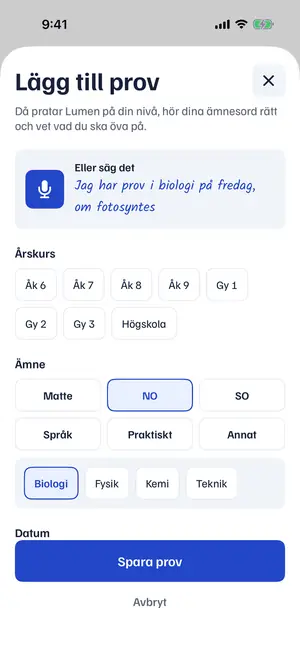
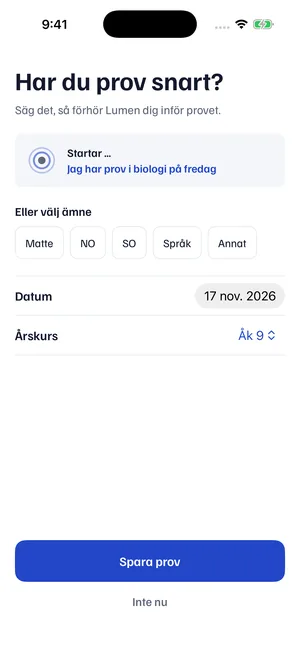
Kelly: A30 granskad (godkänd, 6 mindre fynd), Ke18 klar (sidans tre steg i nya systemet), överlämning enligt PLAN 2e

diff --git a/site/index.html b/site/index.html
@@ -723,8 +723,8 @@
     <p class="lead">Tre steg. Sedan ligger telefonen i fickan och du pluggar med rösten.</p>
     <ol class="steps">
       <li class="paper"><h3>Tryck Testa nu och fråga högt</h3><p>Inget konto. Sätt i AirPods och fråga vad som helst. Svaret hörs i örat.</p><picture><source media="(prefers-color-scheme: dark)" srcset="img/fraga-dark.webp"><img class="shot" src="img/fraga-light.webp" width="300" height="652" loading="lazy" alt="Skärmen Fråga vad som helst i appen: frågan Vad är fotosyntes? och svaret i ett kort, med knappen Fortsätt."></picture></li>
-      <li class="paper"><h3>Säg vilket prov du har</h3><p>Till exempel <span class="hand">”Jag har prov i biologi på fredag”</span>. Du kan också välja ämne och datum.</p><picture><source media="(prefers-color-scheme: dark)" srcset="img/steg1-dark.webp"><img class="shot" src="img/steg1-light.webp" width="300" height="652" loading="lazy" alt="Skärmen Lägg till prov i appen med årskurs, ämne och datum."></picture></li>
-      <li class="paper"><h3>Säg ”Lumen, förhör mig”</h3><p>Lumen ställer frågor om det du pluggar och svarar på dina. Vill du bara ha svar trycker du Få A-svar till provet.</p><picture><source media="(prefers-color-scheme: dark)" srcset="img/steg3-dark.webp"><img class="shot" src="img/steg3-light.webp" width="300" height="652" loading="lazy" alt="Provläget lyssnar i appen: Ställ en fråga när du vill."></picture></li>
+      <li class="paper"><h3>Säg vilket prov du har</h3><p>Till exempel <span class="hand">”Jag har prov i biologi på fredag”</span>. Du kan också välja ämne och datum.</p><picture><source media="(prefers-color-scheme: dark)" srcset="img/steg1-dark.webp"><img class="shot" src="img/steg1-light.webp" width="300" height="652" loading="lazy" alt="Skärmen Har du prov snart? i appen: säg till exempel Jag har prov i biologi på fredag, eller välj ämne, datum och årskurs. Knappen Spara prov."></picture></li>
+      <li class="paper"><h3>Säg ”Lumen, förhör mig”</h3><p>Lumen ställer frågor om det du pluggar och svarar på dina. Vill du bara ha svar trycker du Få A-svar till provet.</p><picture><source media="(prefers-color-scheme: dark)" srcset="img/steg3-dark.webp"><img class="shot" src="img/steg3-light.webp" width="300" height="652" loading="lazy" alt="Provläget i appen med brickan Lyssnar: frågan Vad är fotosyntes? och svaret, med knapparna Pausa och Avsluta."></picture></li>
     </ol>
     <p class="shot-note">Skärmbilder från en testversion av appen.</p>
   </section>

diff --git a/docs/STATUS.md b/docs/STATUS.md
@@ -31,7 +31,7 @@ Last updated: 2026-11-08 by Angela (builder).
 - **Provläge (Angela, D36/D38) and Målbeskrivning + Egna kommandon (Angela, D37/D39):** hands-free tutor session (VAD end-of-turn 0.8 s, barge-in, recogniser gated while we speak, auto-end after 10 min releases the microphone, `mode: tutor` with the whole session's `recent_qa`, retried as `push_to_talk` while the backend rejects `tutor`); course goals compact ≤ 1 500 chars as `goals`; keyword commands matched STT-tolerantly and sent as `commands`, spoken "spara kommando …" stored and confirmed. Green in CI (run 41817986402, 249 app tests); **untested on device**; the backend (answer v8) still rejects `mode: tutor` (400, the app falls back to `push_to_talk`) and ignores the new `goals`/`commands` fields until Kevin's D36/D37 tasks land, so the tutor style and command effects are not yet observable. Also the D35 setting *Svarslängd* (Kort / Anpassad / Utförlig → backend `length`, Settings → Answers), green in run 41819618434 (250 app tests). Reports: `reports/2026-11-04-1214-angela-plugglage.md`, `reports/2026-11-04-1214-angela-goals-commands.md`; checklist §3r–3s.
 - **Easy switch to music (Angela, D33):** Pause/Resume on the listening screen, Lock Screen (Live Activity) and a Control; pause releases the audio session, interruptions never auto-resume (also with `shouldResume`), nothing is spoken while paused. New extension `LumenControls`. Green in CI (run 41806325518); **untested on device**, and the Control's process and Lock Screen resume are untested assumptions. Report: `reports/2026-11-04-1130-angela-d33-music-switch.md`.
 - **Queue D44–D58 (Angela, 2026-11-06):** Historik and Minne on the phone (D49/D56), Scribe as default recogniser with Apple as fallback (D44), Mikrofon per mode + comparison in Diagnostics (D55), mode picker with Intervjuläge and Rizzläge on the StudyMachine (D42/D43), report + Feedback & förslag + opt-in sharing (D57), Siri phrases, Start control and spoken pause (D58), checklist §3t–3z. Also fixed: `goals`/`commands` were sent where the backend does not read them. Green in CI (run 42259754856, 315 app tests). **Nothing has run on a device.** `/feedback` and `/shared-history` are not deployed yet. **Open for Aron:** the discreet indicator was not built (see report, Concerns). Report: `reports/2026-11-06-1830-angela-queue-d49-d58.md`.
-- **Offentlig demosida (Kelly, D62/D66/D86):** Kelly: **Ke21 klar:** "Rizz 18+" och "bara för dig som är 18 år" borta från sidan och skissen Byt läge (D112); sidan beskriver inga spärrar utöver integritet och demons gräns (B2, B3); `reports/2026-11-10-1240-kelly-ke21-d112-sidan.md`. **Ke20 klar:** A26 **godkänd** (R1–R6 stängda i simulatorbilder). Nytt fynd: Övningsprovet (A16) visar ingen lyssnarbricka (skyddsräcke), plus 3 mindre; `reports/2026-11-10-1133-kelly-granskning-a26.md`. Ke18 del 1: sidans steg 1 har appens nya Första frågan; steg 2–3 väntar på bilderna `addExam` och Provläget lyssnar. **Ke19 klar:** demorutan har D97:s två val (Förhör mig = tre Provlägesfrågor med inspelade svar utan anrop, Få A-svar till provet = livedemon, förvald); Lighthouse 99/100/100/100, 1 491 kB, bara Chromium; `reports/2026-11-10-1046-kelly-ke19-d97-pa-sidan.md`. **Ke9 klar** (en väg på demosidan: demo → "Så kommer du igång" i 3 steg → en knapp; mobil 8 533 → 4 226 px, Lighthouse 100; designunderlag för appen i `docs/design/enkel-start.md` till A18; `reports/2026-11-10-0735-kelly-ke9-enkel-start.md`; live, Pages-deploy grön). Ke10 klar (underlag för Start utan prov, Lyssnar och Mikrofon nekad; `reports/2026-11-10-0735-kelly-ke10-vanliga-vagen.md`). Ke11 klar (FAQ synlig på sidan, samma ord i demons rad; `reports/2026-11-10-0740-kelly-ke11-ord-faq.md`). Ke12b klar (designspec app mot sida i `docs/design/designspec.md`; `reports/2026-11-10-0738-kelly-ke12b-designspec.md`). **Ke12 klar:** nytt designsystem `docs/design/SYSTEM.md` (ersätter D86:s skollook i appen) med 3 loggförslag och 5 skärmar före/efter till A18; `reports/2026-11-10-0746-kelly-ke12-proffsig-pluggapp.md`. Ke17 klar: A18 **godkänd med rättelser** (Start godkänd; R1–R4 till Angela före nästa T3), `reports/2026-11-10-0805-kelly-granskning-a18.md`. Ke16 klar: annonserna i nya systemet (`docs/marketing/annonser/system/`); `reports/2026-11-10-0802-kelly-ke16-annonser-system.md`. Ke15 klar: ny delningsbild `og-lumen.png`, site 1 487 kB; `reports/2026-11-10-0800-kelly-ke15-delningsbild.md`. Ke14 klar: SYSTEM.md del 2 (fem skärmar till A18/A22); `reports/2026-11-10-0759-kelly-ke14-system-del2.md`. Ke13 klar: D97 två knappar på provkortet i SYSTEM.md och skisserna; `reports/2026-11-10-0754-kelly-ke13-d97-tva-knappar.md`. Ke13b klar: sidan i SYSTEM.md (ingen handstil eller rutpapper, Kalam bort, 1 699 kB); `reports/2026-11-10-0751-kelly-ke13-sida-nya-systemet.md`. Ke3 klar (steg med T3-bilder, animation, FAQ, sitemap). Ke2 klar (fokus till svaret efter en fråga, träffytor 44 px, taket för tal provat live med fejkad mikrofon; `reports/2026-11-08-1815-kelly-ke2-oscar-fynd.md`). Ke1 klar (riktiga Provläge-exempel med inspelat ljud, väntelisterad efter svaret, svepbara exempelfrågor på mobil, inga layoutskift, delningsbild och favicon; 61 kB vid start; `reports/2026-11-08-1640-kelly-ke1-demo.md`). Sidan är **publicerad** på https://aronstenlund-code.github.io/aronstenlund-airpods-ai/ (Pages på 2026-11-08, run 42486945392: check och deploy gröna). Live verifierat i Chromium: en riktig fråga gav svar (signup, answer, tts 200), typsnitten laddas och CORS tillåter adressen. Appens design (D86) med platshållare för foto. Ändringar i `site/` publiceras av sig själva vid push till main. **Ej testad på iPhone, Safari eller AirPods.** Kvar: riktigt foto. Rapporter: `reports/2026-11-08-1250-kelly-demo-publish.md`, `reports/2026-11-08-1450-kelly-demo-d86.md`.
+- **Offentlig demosida (Kelly, D62/D66/D86):** Kelly: **A30 granskad: godkänd** (Ke20:s fyra fynd rättade i simulatorbilder; 6 mindre nya fynd till Angela, bl.a. "Startar …" på Har du prov snart?, demodata som blandar ämnen i övningsprovet). **Ke18 klar:** sidans tre steg visar appen i det nya systemet (Första frågan, Har du prov snart?, Provläget med "Lyssnar"); Lighthouse 99/100/100/100, bara Chromium; `reports/2026-11-10-1249-kelly-granskning-a30-ke18.md`. Kellys session stoppar enligt PLAN 2e (två komprimeringar); Ke22–Ke25 väntar på nästa Kelly-session, se `docs/HANDOVER-KELLY.md`. **Ke21 klar:** "Rizz 18+" och "bara för dig som är 18 år" borta från sidan och skissen Byt läge (D112); sidan beskriver inga spärrar utöver integritet och demons gräns (B2, B3); `reports/2026-11-10-1240-kelly-ke21-d112-sidan.md`. **Ke20 klar:** A26 **godkänd** (R1–R6 stängda i simulatorbilder). Nytt fynd: Övningsprovet (A16) visar ingen lyssnarbricka (skyddsräcke), plus 3 mindre; `reports/2026-11-10-1133-kelly-granskning-a26.md`. Ke18 del 1: sidans steg 1 har appens nya Första frågan; steg 2–3 väntar på bilderna `addExam` och Provläget lyssnar. **Ke19 klar:** demorutan har D97:s två val (Förhör mig = tre Provlägesfrågor med inspelade svar utan anrop, Få A-svar till provet = livedemon, förvald); Lighthouse 99/100/100/100, 1 491 kB, bara Chromium; `reports/2026-11-10-1046-kelly-ke19-d97-pa-sidan.md`. **Ke9 klar** (en väg på demosidan: demo → "Så kommer du igång" i 3 steg → en knapp; mobil 8 533 → 4 226 px, Lighthouse 100; designunderlag för appen i `docs/design/enkel-start.md` till A18; `reports/2026-11-10-0735-kelly-ke9-enkel-start.md`; live, Pages-deploy grön). Ke10 klar (underlag för Start utan prov, Lyssnar och Mikrofon nekad; `reports/2026-11-10-0735-kelly-ke10-vanliga-vagen.md`). Ke11 klar (FAQ synlig på sidan, samma ord i demons rad; `reports/2026-11-10-0740-kelly-ke11-ord-faq.md`). Ke12b klar (designspec app mot sida i `docs/design/designspec.md`; `reports/2026-11-10-0738-kelly-ke12b-designspec.md`). **Ke12 klar:** nytt designsystem `docs/design/SYSTEM.md` (ersätter D86:s skollook i appen) med 3 loggförslag och 5 skärmar före/efter till A18; `reports/2026-11-10-0746-kelly-ke12-proffsig-pluggapp.md`. Ke17 klar: A18 **godkänd med rättelser** (Start godkänd; R1–R4 till Angela före nästa T3), `reports/2026-11-10-0805-kelly-granskning-a18.md`. Ke16 klar: annonserna i nya systemet (`docs/marketing/annonser/system/`); `reports/2026-11-10-0802-kelly-ke16-annonser-system.md`. Ke15 klar: ny delningsbild `og-lumen.png`, site 1 487 kB; `reports/2026-11-10-0800-kelly-ke15-delningsbild.md`. Ke14 klar: SYSTEM.md del 2 (fem skärmar till A18/A22); `reports/2026-11-10-0759-kelly-ke14-system-del2.md`. Ke13 klar: D97 två knappar på provkortet i SYSTEM.md och skisserna; `reports/2026-11-10-0754-kelly-ke13-d97-tva-knappar.md`. Ke13b klar: sidan i SYSTEM.md (ingen handstil eller rutpapper, Kalam bort, 1 699 kB); `reports/2026-11-10-0751-kelly-ke13-sida-nya-systemet.md`. Ke3 klar (steg med T3-bilder, animation, FAQ, sitemap). Ke2 klar (fokus till svaret efter en fråga, träffytor 44 px, taket för tal provat live med fejkad mikrofon; `reports/2026-11-08-1815-kelly-ke2-oscar-fynd.md`). Ke1 klar (riktiga Provläge-exempel med inspelat ljud, väntelisterad efter svaret, svepbara exempelfrågor på mobil, inga layoutskift, delningsbild och favicon; 61 kB vid start; `reports/2026-11-08-1640-kelly-ke1-demo.md`). Sidan är **publicerad** på https://aronstenlund-code.github.io/aronstenlund-airpods-ai/ (Pages på 2026-11-08, run 42486945392: check och deploy gröna). Live verifierat i Chromium: en riktig fråga gav svar (signup, answer, tts 200), typsnitten laddas och CORS tillåter adressen. Appens design (D86) med platshållare för foto. Ändringar i `site/` publiceras av sig själva vid push till main. **Ej testad på iPhone, Safari eller AirPods.** Kvar: riktigt foto. Rapporter: `reports/2026-11-08-1250-kelly-demo-publish.md`, `reports/2026-11-08-1450-kelly-demo-d86.md`.
 - **D63 + indicator (Angela, 2026-11-06):** Rizzläge flirty only behind an 18+ gate, new Socialt läge, slimmer indicator that keeps its text and Stop (D68, Aron confirmed "Behåll texten"). Green in CI (run 42268384817, 320 app tests). **Untested on device.** Both live modes fail against the server until Kevin's D63 is deployed. Report: `reports/2026-11-06-1945-angela-d63-indicator.md`.
 - **Device install without a Mac (Angela, D70, 2026-11-07):** CI archives the app unsigned and uploads `Lumen-unsigned.ipa` (artifact `Lumen-unsigned`, 14 days) on green builds of main and on manual runs; no entitlements in the repo, so nothing is dropped. Swedish steps: `docs/INSTALL-SIDELOADLY.md`. Aron installed it on an iPhone 14 Pro (iOS 26.5).
 - **Crash when the microphone starts, fixed (Angela, 2026-11-07):** the capture tap closure inherited `@MainActor` and Swift 6 trapped on Core Audio's real-time queue (9 crashes on device). Six callbacks (two audio taps, the synthesizer buffer callback, the player completion handler, the SFSpeech result and authorization handlers) are now nonisolated; a test calls each from a background queue. **D71:** Provläge never auto-ends by default. Commit `4a50887`. **Untested on device** until Aron reinstalls. Report: `reports/2026-11-07-1640-angela-crash-fix-callbacks.md`.

diff --git a/reports/2026-11-10-1249-kelly-granskning-a30-ke18.md b/reports/2026-11-10-1249-kelly-granskning-a30-ke18.md
@@ -1,0 +1,54 @@
+# Ke21 del 2 – Granskning av A28–A30 och Ke18 klar (Kelly, 2026-11-10 12:49)
+
+Angela pushade samma bilder under arbetet (`reports/2026-11-10-a30-skarmbilder/`, kontrollerat byte för byte för
+`addExamFirst`, `listeningProv` och `practice`).
+
+Underlag: Angelas `reports/2026-11-10-angela-a30-kelly-ke20.md` och simulatorbilderna från CI-körningarna 42807653076
+(iPhone 17 Pro, 1206 × 2622) och 42807657706 (iPhone SE, 750 × 1334), båda gröna. Jag hämtade bilderna direkt ur
+körningarna, eftersom de inte var pushade än. Kontaktark: `reports/2026-11-10-ke21-granskning-a30/`.
+**Bara skärmbilder från simulatorn, inget på telefon.**
+
+A28 (ekot efter tiden) och A29 (händelser för mikrofonen) ändrar inte utseendet, så de har inga bilder att granska.
+
+## Dom: **A30 godkänd.** Alla fyra fynden från Ke20 är rättade i bild.
+| # | Fynd (Ke20) | I bilderna |
+|---|---|---|
+| 1 | Övningsprovet saknar lyssnarbricka (skyddsräcke) | **Rättat.** `practice` och `practiceResult` visar Lyssnar i Provläge med brickan "Lyssnar", på Pro och SE och i ljust och mörkt (bild 1–3). |
+| 2 | "Klar" på resultatkortet | **Rättat.** Knappen heter "Stäng" (bild 2). |
+| 3 | "Lumen sparar aldrig ljud" | **Rättat.** Första frågan säger "Ljud sparas inte.", samma ord som introt (bild 2). |
+| 4 | Ingen ✓ på röstsidan i mörkt | **Rättat.** Den valda rösten har ✓ i ljust och mörkt (bild 2). |
+| R2 | SE ljust intro saknades | **Rättat.** Alla tre löftena och "Ljud sparas inte · Läs mer" syns ovanför Testa nu på SE i ljust (bild 3). |
+
+Kontrast: knapparna i mörkt läge har mörk text (#0E1630) på #7F9BFF, alltså 7,2:1, samma som sidan (**mätt i bilden**).
+
+## Nya fynd (till Angela via Deangelo, alla mindre)
+1. **"Har du prov snart?" (`addExamFirst`) visar "Startar …"**, eftersom simulatorn saknar mikrofon. `listeningProv` visar
+   redan "Lyssnar" via `screenshotShows`; gör samma sak här, så att skissen `prov2.png` och sidans steg 2 stämmer.
+2. **Ämnena på "Har du prov snart?"** är rundade rutor. Enligt SYSTEM.md §3 är chips helt runda.
+3. **Instruktionsraden "Säg "Lumen, förhör mig"" står längst ner på Lyssnar** (även i A26, som jag missade). SYSTEM.md §4
+   säger att röstkommandon ska visas en gång, inte på varje skärm. Kommandon-länken räcker.
+4. **Demodatan i övningsprovet blandar ämnen:** "Biologiprovet" med en fråga om första världskriget, återkoppling om en
+   ekvation ("x är fem") och "Att öva på: ekvationer". Det syns bara i skärmbilderna, men bilderna kan hamna på sidan och i
+   App Store. Använd biologifrågor.
+5. **Röstsidan:** "iPhonens röst" och "Alva, iPhonens röst" ser ut som samma sak två gånger, och "Saga, Svensk röst"
+   och "Max, Svensk röst" säger inget om skillnaden. SYSTEM.md §8 beskriver rösten ("Mansröst, lugn") i stället för att
+   ge den namn.
+6. **"Lägg till prov" (`addExam`)** har fortfarande 19 val (årskurs, ämne, delämne). Det följer inte Ke14:s tre val, men
+   "Har du prov snart?" gör det. Det är ett gammalt fynd, och jag tar det bara med här för att inte tappa det.
+
+## Ke18 klar: sidans tre steg i appens nya system
+| Steg | Bild | Källa |
+|---|---|---|
+| 1. Tryck Testa nu och fråga högt | `site/img/fraga-*.webp` | `first` (nu med "Ljud sparas inte.") |
+| 2. Säg vilket prov du har | `site/img/steg1-*.webp` | `addExamFirst`, "Har du prov snart?" |
+| 3. Säg "Lumen, förhör mig" | `site/img/steg3-*.webp` | `listeningProv`, Provläget med brickan "Lyssnar" |
+
+- 300 × 652 WebP, 9–14 kB per bild. Sidan är 1,5 MB (gräns 2 MB).
+- Steg 2 och 3 har nya alt-texter som beskriver det som syns.
+- Steg 2 visar "Startar …" (fynd 1). Det är sant mot appen när den startar. Bilden byts när Angela har tagit om den.
+- Kontrollerat i Chromium på 1280 px i ljust och mörkt (bild 4–5) och på 375 px. Lighthouse 99/100/100/100, med Supabase
+  blockerat. **Inte provat i Safari eller på iPhone.**
+
+## Till Aron
+- Välj ett av de sex ChatGPT-förslagen till loggan (`docs/design/logo/chatgpt-forslag-2026-11-10.jpg`, Ke24). Den behövs på
+  sidan, i appen och i delningsbilden.

diff --git a/prompts/queue/kelly.md b/prompts/queue/kelly.md
@@ -76,13 +76,13 @@ Aron (2026-11-08): demosidan måste bli väldigt bra.
 
 - [x] klar 2026-11-10 08:49 → reports/2026-11-10-0805-kelly-granskning-a18.md (godkänd med rättelser R1–R6) **Ke17 – Stående uppgift (PLAN 2c): granskningslista och granskning av A18** (effort: medium, Kelly själv). `docs/design/GRANSKNING.md`: punkterna jag kontrollerar på varje A-punkt som ändrar utseendet (SYSTEM.md, D97, samtycke, D57, ljust/mörkt/SE). Sedan granskningen av A18 när Angelas skärmbilder finns i `reports/`.
 
-- [ ] delvis 2026-11-10 11:33 (steg 1 bytt, steg 2–3 väntar på bilderna `addExam` och Provläget lyssnar, se `reports/2026-11-10-1133-kelly-granskning-a26.md`) **Ke18 – Stående uppgift: sidans tre stegbilder från appens nya utseende** (effort: low, Kelly själv). Beror på: Angelas rättelser R1–R4 ur `reports/2026-11-10-0805-kelly-granskning-a18.md` och nya skärmbilder (även "Har du prov snart?"). Byt `site/img/fraga-*`, `steg1-*`, `steg3-*` mot nya bilder (WebP, 300 px bred), samma tre steg. `site/` ≤ 2 MB.
+- [x] klar 2026-11-10 12:49 (Kelly, alla tre stegen i nya systemet från A30, `reports/2026-11-10-1249-kelly-granskning-a30-ke18.md`) **Ke18 – Stående uppgift: sidans tre stegbilder från appens nya utseende** (effort: low, Kelly själv). Beror på: Angelas rättelser R1–R4 ur `reports/2026-11-10-0805-kelly-granskning-a18.md` och nya skärmbilder (även "Har du prov snart?"). Byt `site/img/fraga-*`, `steg1-*`, `steg3-*` mot nya bilder (WebP, 300 px bred), samma tre steg. `site/` ≤ 2 MB.
 
 - [x] klar 2026-11-10 10:47 → reports/2026-11-10-1046-kelly-ke19-d97-pa-sidan.md **Ke19 – Demosidan som samma produkt som appen: D97:s två val i demorutan** (effort: low, Aron 2026-11-10). "Förhör mig" och "Få A-svar till provet" med samma namn och rader som provkortet. Få A-svar = dagens livedemo. Förhör mig = tre frågor ur Provläget med de inspelade svaren, utan nya anrop. `site/` ≤ 2 MB, Lighthouse ≥ 95.
 
 - [x] klar 2026-11-10 11:33 → reports/2026-11-10-1133-kelly-granskning-a26.md (A26 godkänd, R1–R6 stängda, 4 nya fynd varav 1 skyddsräcke) **Ke20 – Granska A26:s skärmbilder** (effort: low, PLAN 2c, Aron 2026-11-10).
 
-- [x] klar 2026-11-10 12:40 (Kelly, `reports/2026-11-10-1240-kelly-ke21-d112-sidan.md`; granskningen av A28–A30 följer när bilderna är pushade) **Ke21 – Demosidan efter D112/D113** (effort: medium). Ta bort allt om 18+ och åldersgräns för Rizzläget på sidan (D112: flirtigt men aldrig sexuellt, för alla åldrar). Om sidan beskriver vad Lumen inte gör: håll det till de åtta skydden i `docs/RESTRIKTIONER.md` del B (t.ex. samtycke och lyssningsindikator), inga andra spärrar. Granska sedan Angelas A28–A30-bilder när de är pushade.
+- [x] klar 2026-11-10 12:40 (Kelly, `reports/2026-11-10-1240-kelly-ke21-d112-sidan.md`; A30 granskad och godkänd 12:49, `reports/2026-11-10-1249-kelly-granskning-a30-ke18.md`) **Ke21 – Demosidan efter D112/D113** (effort: medium). Ta bort allt om 18+ och åldersgräns för Rizzläget på sidan (D112: flirtigt men aldrig sexuellt, för alla åldrar). Om sidan beskriver vad Lumen inte gör: håll det till de åtta skydden i `docs/RESTRIKTIONER.md` del B (t.ex. samtycke och lyssningsindikator), inga andra spärrar. Granska sedan Angelas A28–A30-bilder när de är pushade.
 
 - [ ] **Ke22 – Annonser, start** (effort: high). D117: annonserna ska börja snart. Ta fram 3 korta annonsidéer (9:16, 15 s) för Instagram/TikTok med Elias, med manus och bildplan, och två stillbilder. Läs varje manus noga (naturlig svenska, längd) innan något genereras i ElevenLabs. Använd de två knapparna (D97) och "Standardläge" (D115).
 

diff --git a/prompts/queue/BOARD.md b/prompts/queue/BOARD.md
@@ -18,4 +18,4 @@ Kolumnerna:
 | Angela (app) | Opus 5.5 (claude-opus-5-5) | low (sessionens inställning) | stående uppgift (PLAN 2b); A3 väntar på K6 | jobbar | A28 (O30 eko efter tid), A29 (T7 händelser), A30 (Ke20 + bilder till sidan) klara, grönt i CI 42807652449. I dag 14 punkter, alla gröna, ej på enhet | 2026-11-10 15:00 | 14 punkter, komprimerad, byt snart (överlämning `docs/HANDOVER-angela.md`) |
 | Oscar (QA) | Opus 5.5 (claude-opus-5-5) | low (sessionens inställning) | – (gratis offlinepunkter genomgångna; omtest när Kevin rättat K21b, calc-parenteser, K22) | väntar på Kevin; **BLOCKER K21b: 18/40 nya krisfall tysta i Auto**; Aron: lägg inte in service-role-hemligheten (K22) | O34: verklighetsbanken +44 fall (körs när budget finns). O33 klar: klocka/zoner/datum i kod 11/11 rätt. O32 klar: BUGG, calc.ts tar bort parenteser ('(12+8)*2' blir 28 och läses upp). O31 klar: K19 länkbegäran känns igen 5/15, domänskyddet 9/9. O30 klar: ekofiltret äter 4/8 följdfrågor som citerar svaret. O29 klar: telefonskyddet 17/22 (Bris och 90101 läses som stora tal). O28 klar: minnesfiltret (server+app) stoppar 5/27 känsliga minnen. O27 klar: Rizz-filtret i kod stoppar 0/25 nya olämpliga rader (bara modellen skyddar). O26 klar: uppläsning av tal 34/45 ('6/6' blir 'sex/sex', 'ett bok'). O24 klar: frågor om Lumen 5/20, 'Erik 14 poäng' blir 'Erik den fjortonde poäng' (8/10 vanliga namn). O25 klar: K22-rensningen tar bort 3/22 personuppgifter och hoppar över 2/20 känsliga rader, och pushar själv till det publika repot (hemligheten är inte inlagd, så inget har läckt). O23 (O17b) klar: krissvaret 20/40, tysta 18/40, falska larm 10/40. O22, O21, O17, O20, O19, O11, O13 del 1, O18, O15, O12, O14 klara | 2026-11-10 11:12 | 24 punkter, komprimerad, byt snart (överlämning `docs/HANDOVER-OSCAR.md`) |
 | Toby (apptest) | Opus 5.5 (claude-opus-5-5) | medium | T9 skärmrunda efter A18/A22 + T8b del 1 (Lyssnar efter mikrofonfrågan) | jobbar, byt snart | T9: turen följer A18/A22:s knappord (första körningen fastnade på 'Fortsätt', turens fel) | 2026-11-10 10:05 | komprimerad, byt snart (T7, T8 klara, T9 pågår) |
-| Kelly (demosida) | Opus 5.5 (claude-opus-5-5) | low (sessionens inställning) | Granska A30-bilderna och Ke18 steg 2–3 när bilderna är pushade (A30 CI) | jobbar | Ke21 klar: 18+ borta för Rizz på sidan och i skissen (D112). Ke20 klar. API 0 USD | 2026-11-10 12:40 | 14 punkter (Ke9–Ke21, Ke12b, Ke13b), två komprimeringar, byt snart, fortsätter till 18:00 |
+| Kelly (demosida) | Opus 5.5 (claude-opus-5-5) | low (sessionens inställning) | – (Ke22–Ke25 till nästa Kelly-session) | stoppad (PLAN 2e) | Ke21 klar (Rizz utan 18+), A30 godkänd, Ke18 klar (sidans tre steg i nya systemet). API 0 USD | 2026-11-10 12:50 | 15 punkter (Ke9–Ke21, Ke12b, Ke13b, Ke18), två komprimeringar, överlämning skriven i docs/HANDOVER-KELLY.md |

diff --git a/docs/HANDOVER-KELLY.md b/docs/HANDOVER-KELLY.md
@@ -25,10 +25,19 @@ Det här står inte i rapporterna. Rapporterna `reports/*kelly*` täcker resten.
 - Samtyckesmeningen under Testa nu och tummen ned (D57) får aldrig försvinna ur en skiss.
 
 ## Öppna trådar
-- Ke13b klar: sidan följer SYSTEM.md. Ke13 (D97, två knappar på provkortet) klar. Loggan byts när Aron valt A, B eller C (sidhuvudet, `og-lumen.png` via `docs/marketing/annonser/_src/og-system.html`, appen).
+- Ke13b klar: sidan följer SYSTEM.md. Ke13 (D97, två knappar på provkortet) klar. Loggan byts när Aron valt (Ke24, ChatGPT-förslagen; A/B/C gillades inte) (sidhuvudet, `og-lumen.png` via `docs/marketing/annonser/_src/og-system.html`, appen).
 - Kör Lighthouse med `--blocked-url-patterns="*supabase.co*"`. Annars skapar varje körning en anonym inloggning, och spärren
   ger 429 (Best Practices 96). Med blockering: 99/100/100/100 (Ke19).
-- Skärmbilderna i sidans tre steg (Ke18) byts när Angelas A26 har skärmbilder i repot. Granska dem först (PLAN 2c).
+- **Ke18 klar (12:49).** Stegbilderna görs med `ke18.py` (scratchpad, försvinner): ta Pro-bilderna ur
+  `reports/<datum>-aNN-skarmbilder/` eller ur CI-artefakten från "Simulator screenshots" (API: `actions/runs/<id>/artifacts`,
+  ladda ned zip med token från `git credential fill`). Skala till 300 bredd, WebP kvalitet 82, `method=6`. Mappning:
+  `first` → `fraga-*`, `addExamFirst` → `steg1-*`, `listeningProv` → `steg3-*`. Byt steg 2 när Angela har rättat
+  "Startar …" (fynd 1 i `reports/2026-11-10-1249-kelly-granskning-a30-ke18.md`).
+- **Session 2026-11-10 (Ke19–Ke21, Ke18) stoppade 12:50 enligt PLAN 2e (två komprimeringar).** Nästa i kön: Ke22
+  (annonser, effort high), Ke23 (namn och logga), Ke24 (logga från ChatGPT-förslagen, väntar på Arons val), Ke25
+  (App Store-sidan). Rizz har ingen åldersgräns längre (D112), och skydden i `docs/RESTRIKTIONER.md` del B är de enda (D114).
+- Skissen `bytlage.png` och `kommandon.png` har "Klar" i bladets hörn. Det är iOS-bladets ord, men appen använder "Stäng"
+  på resultatkortet. Bestäm en gång vilket ord bladen ska ha.
 - Ke19: demorutan har D97:s två val. "Förhör mig" är tre Provlägesfrågor med de inspelade svaren i `site/audio/`,
   helt utan anrop, för att servern inte låter demon förhöra (D62). `QUIZ` i skriptet har texterna ordagrant. Byt
   aldrig svarstext utan att byta ljudfil. Oscars `scripts/qa/demo_site*.py` förutsätter att `#txt` syns vid start, så
